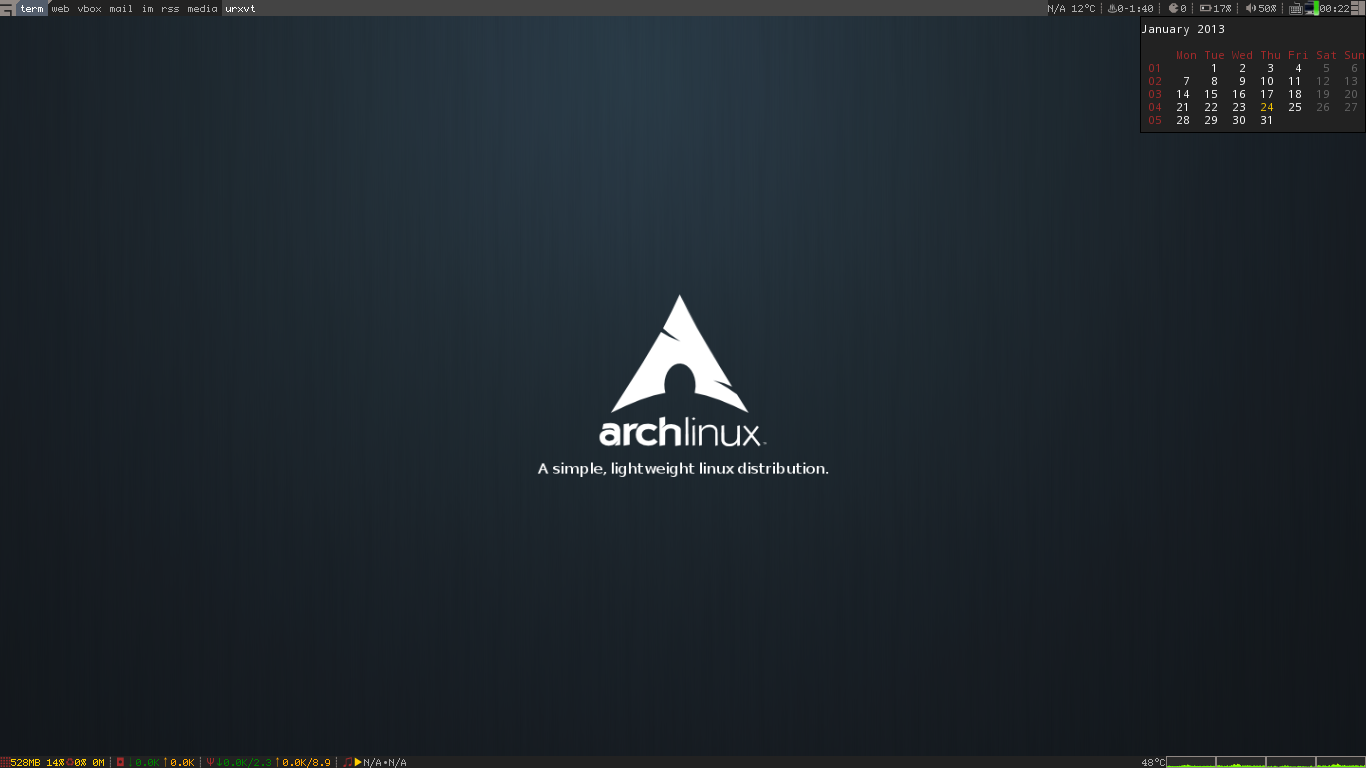
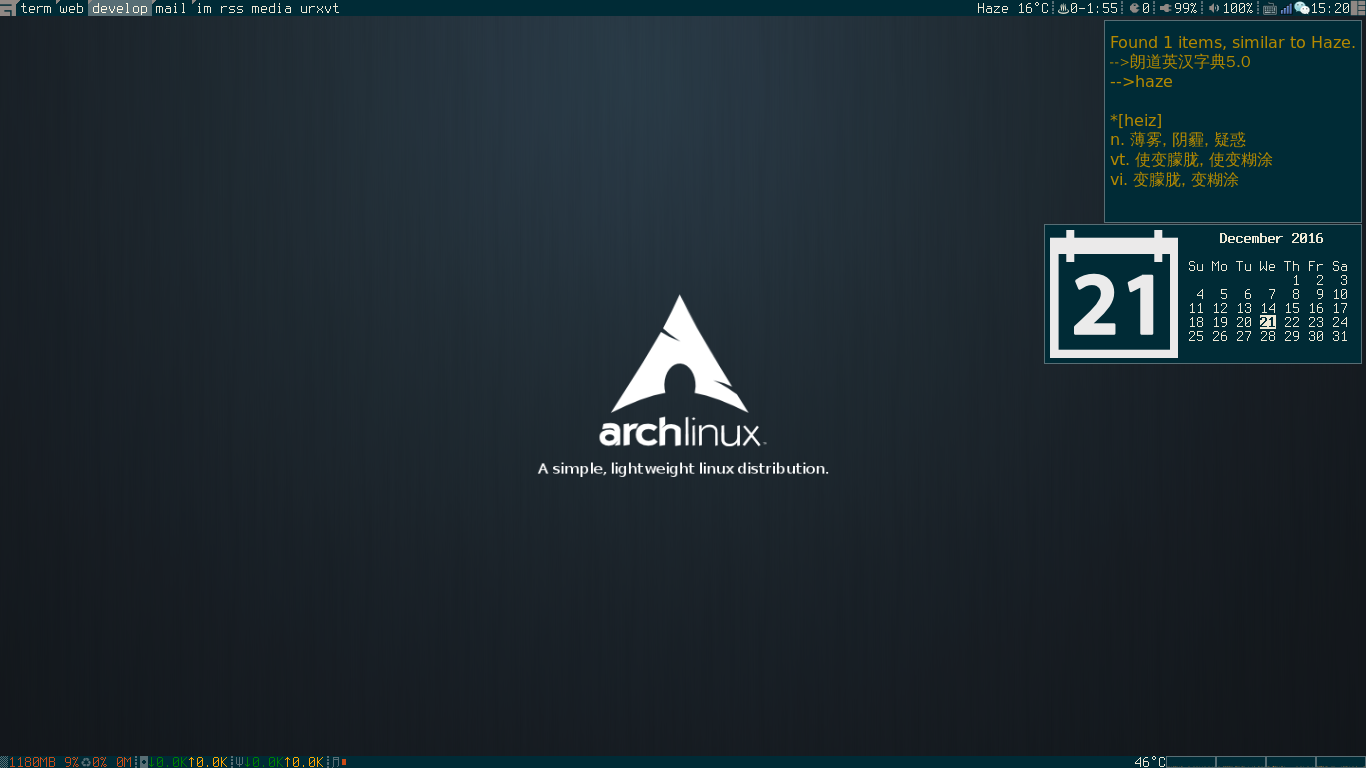
change readme

Changed region(s): [[0.0, 0.0, 1.0, 0.5], [0.0, 0.9688, 1.0, 1.0]]

diff --git a/README.md b/README.md
@@ -11,15 +11,16 @@ my `awesome` config (only for me ,may some can help you)
 Note
 ======
 * Be sure `awesome` version has update to 3.5
-* Be sure `vicious` has installed
+* Be sure `vicious` has installed  `arch vicious is out of date new is [here](https://github.com/Mic92/vicious|vicious "vicious")`
 * There is some my Thinkpad X230's Keyboard settings you should change
+* 2016-12-21 add lain,freedesktop and change some colors 
 
 Install
 ======
-- copy the project files into your ~awesome~ config dir,mostly it is `~/config/awesome/`
+- copy the project files into your `awesome` config dir,mostly it is `~/.config/awesome/`
 - update the `xdgmenu` bye the command:
 
-`$ xdg_menu --format awesome --root-menu /etc/xdg/menus/arch-applications.menu > ~/.config/awesome/menu.lua`
+---`$ xdg_menu --format awesome --root-menu /etc/xdg/menus/arch-applications.menu > ~/.config/awesome/menu.lua`---
 
 Linsence
 ======
